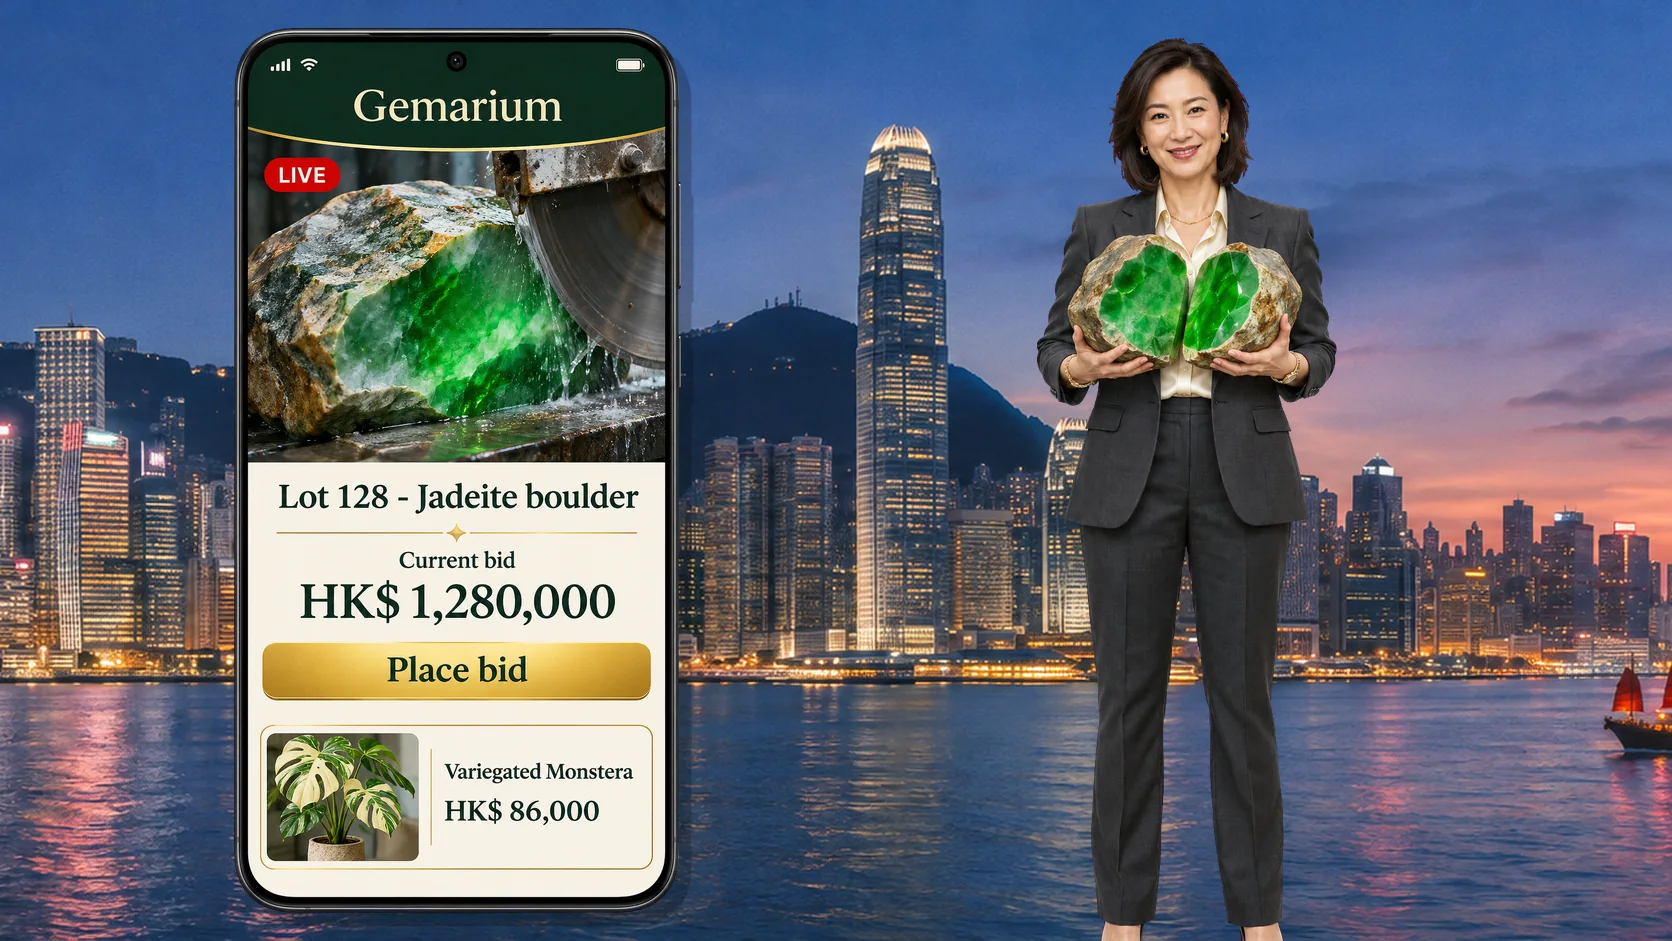
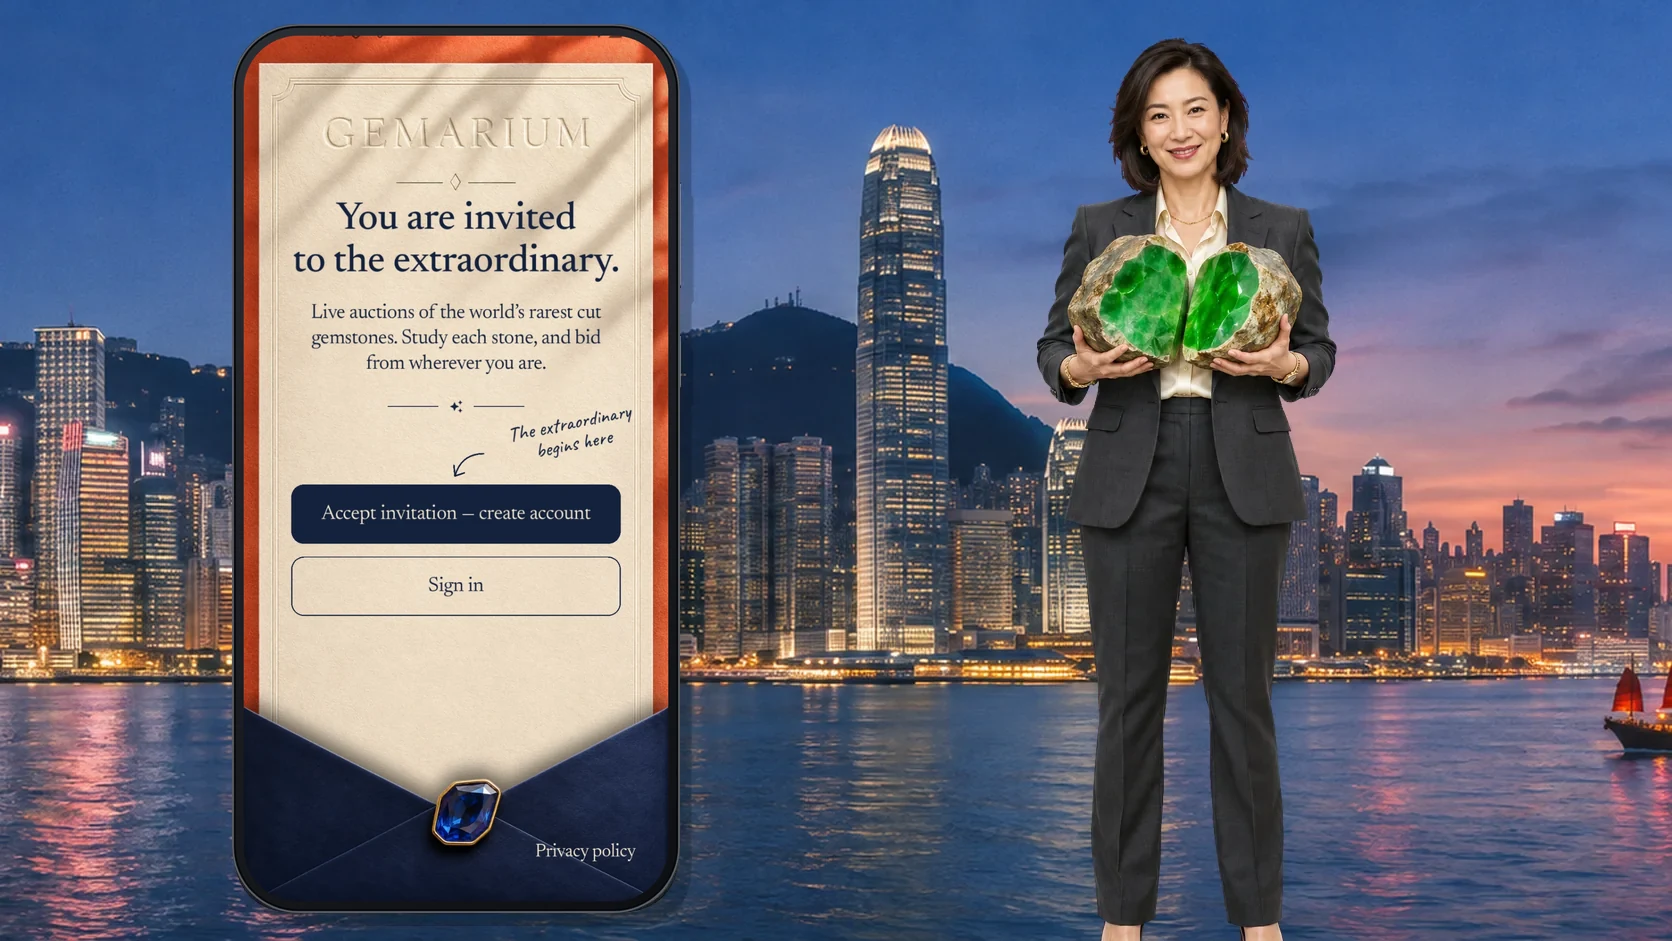
feat: cenas do portfólio reorganizadas e imagens carregadas ao entrar
- ClockRight, Fran, Gemarium e App Banco: pessoa junto da peça, com o
  corpo terminando atrás dela, em vez de solta e longe da legenda.
- App Banco: senhor mais realista, cartão de saldo preto e tela do app.
- Gemarium: nova tela do app, posição 07 e local só "Hong Kong".
- Ao entrar no Portfólio (desktop), baixa as imagens de todas as cenas.

Changed region(s): [[0.1244, 0.0, 0.4043, 0.9862]]

diff --git a/src/pages/Mateus/Portfolio/ProjectStage.tsx b/src/pages/Mateus/Portfolio/ProjectStage.tsx
@@ -7,6 +7,7 @@ import nexovareTela1 from "../../../assets/Mateus/portfolio/stage/nexovare-tela1
 import bancoPessoa from "../../../assets/Mateus/portfolio/stage/banco-pessoa.webp";
 import bancoCena from "../../../assets/Mateus/portfolio/stage/banco-cena.webp";
 import bancoTela1 from "../../../assets/Mateus/portfolio/stage/banco-tela1.webp";
+import bancoTela2 from "../../../assets/Mateus/portfolio/stage/banco-tela2.webp";
 import bideirasPessoa from "../../../assets/Mateus/portfolio/stage/bideiras-pessoa.webp";
 import bideirasCena from "../../../assets/Mateus/portfolio/stage/bideiras-cena.webp";
 import bideirasTela1 from "../../../assets/Mateus/portfolio/stage/bideiras-tela1.webp";
@@ -58,6 +59,8 @@ type Person = Readonly<{
 	bottom?: number;
 	/** Corpo inteiro: sem o degradê que some com as pernas. */
 	full?: boolean;
+	/** Altura do quadro em que o corpo termina, escondido atrás da peça da frente. */
+	until?: number;
 }>;
 
 type StageConfig = Readonly<{
@@ -79,11 +82,14 @@ const STAGES: Partial<Record<PortfolioProjectId, StageConfig>> = {
 		caption: { x: 22, y: 100, w: 160 },
 	},
 	"app-bank": {
-		circle: { x: 204, y: 150, d: 286 },
+		circle: { x: 208, y: 70, d: 286 },
 		scene: bancoCena,
-		person: { src: bancoPessoa, right: -8, bottom: 112, h: 330 },
-		screens: [{ src: bancoTela1, x: 16, y: 84, w: 300, rot: -3, radius: 18, alt: "Saldo no App Banco" }],
-		caption: { x: 22, y: 300, w: 170 },
+		person: { src: bancoPessoa, right: 12, top: 56, h: 600, until: 530 },
+		screens: [
+			{ src: bancoTela1, x: 150, y: 392, w: 320, rot: -3, radius: 18, alt: "Saldo no App Banco" },
+			{ src: bancoTela2, x: 24, y: 282, w: 140, bare: true, alt: "Tela de acesso do App Banco" },
+		],
+		caption: { x: 22, y: 96, w: 165 },
 	},
 	"guine-bissau-commerce": {
 		circle: { x: 186, y: 84, d: 300 },
@@ -93,10 +99,10 @@ const STAGES: Partial<Record<PortfolioProjectId, StageConfig>> = {
 		caption: { x: 22, y: 96, w: 152 },
 	},
 	clockright: {
-		circle: { x: 236, y: 80, d: 250 },
+		circle: { x: 206, y: 70, d: 280 },
 		scene: clockrightCena,
-		person: { src: clockrightPessoa, right: 34, top: 96, h: 392, full: true },
-		screens: [{ src: clockrightTela1, x: 20, y: 300, w: 212, radius: 14, alt: "Menu do ClockRight" }],
+		person: { src: clockrightPessoa, right: 88, top: 90, h: 580, until: 566 },
+		screens: [{ src: clockrightTela1, x: 112, y: 346, w: 300, radius: 14, alt: "Menu do ClockRight" }],
 		caption: { x: 22, y: 96, w: 210 },
 	},
 	"central-clube-livro": {
@@ -111,25 +117,46 @@ const STAGES: Partial<Record<PortfolioProjectId, StageConfig>> = {
 		logo: false,
 	},
 	"site-adv": {
-		circle: { x: 216, y: 80, d: 268 },
+		circle: { x: 180, y: 70, d: 280 },
 		scene: gemariumCena,
-		person: { src: gemariumPessoa, right: 44, top: 92, h: 452, full: true },
-		screens: [{ src: gemariumTela1, x: 34, y: 286, w: 146, bare: true, alt: "Aplicativo do Gemarium" }],
-		caption: { x: 22, y: 96, w: 190 },
+		person: { src: gemariumPessoa, right: 90, top: 86, h: 560, until: 576 },
+		screens: [{ src: gemariumTela1, x: 248, y: 292, w: 145, bare: true, alt: "Aplicativo do Gemarium" }],
+		caption: { x: 22, y: 96, w: 155 },
 	},
 	"site-cabeleireira": {
-		circle: { x: 226, y: 96, d: 262 },
+		circle: { x: 208, y: 70, d: 288 },
 		scene: franCena,
-		person: { src: franPessoa, right: 30, top: 104, h: 384, full: true },
+		person: { src: franPessoa, right: 58, top: 86, h: 590, until: 576 },
 		screens: [
-			{ src: franTela1, x: 18, y: 304, w: 206, rot: -3, alt: "Página inicial do Fran Studio" },
+			{ src: franTela1, x: 178, y: 320, w: 250, rot: -3, alt: "Página inicial do Fran Studio" },
 		],
-		caption: { x: 22, y: 96, w: 200 },
+		caption: { x: 32, y: 96, w: 165 },
 	},
 };
 
 export const hasProjectStage = (projectId: PortfolioProjectId) =>
 	Boolean(STAGES[projectId]);
+
+// Mantém as referências: sem elas o navegador pode descartar o que já decodificou.
+const preloadedStageImages: HTMLImageElement[] = [];
+
+/** Baixa as imagens de todas as cenas em segundo plano (só o desktop usa o painel). */
+export function preloadProjectStages() {
+	if (preloadedStageImages.length > 0 || !globalThis.matchMedia("(min-width: 992px)").matches) return;
+	const sources = new Set(
+		Object.values(STAGES).flatMap((stage) => [
+			stage.scene,
+			stage.person.src,
+			...stage.screens.map((screen) => screen.src),
+		]),
+	);
+	for (const src of sources) {
+		const image = new Image();
+		image.src = src;
+		image.decode().catch(() => undefined);
+		preloadedStageImages.push(image);
+	}
+}
 
 type StageStyle = CSSProperties & Record<`--${string}`, string>;
 
@@ -140,7 +167,8 @@ export default function ProjectStage({ project }: Readonly<{ project: PortfolioP
 	if (!stage) return null;
 
 	const { circle, person, caption } = stage;
-	const location = project.worldLocation;
+	const city = project.worldLocation?.city ?? "Fortaleza";
+	const country = project.worldLocation?.country ?? "Brasil";
 	const stageStyle: StageStyle = {
 		"--circle-x": px(circle.x),
 		"--circle-y": px(circle.y),
@@ -151,6 +179,7 @@ export default function ProjectStage({ project }: Readonly<{ project: PortfolioP
 		top: person.top === undefined ? undefined : px(person.top),
 		bottom: person.bottom === undefined ? undefined : px(person.bottom),
 		height: px(person.h),
+		clipPath: person.until === undefined ? undefined : `inset(0 0 ${(person.top ?? 0) + person.h - person.until}px 0)`,
 	};
 
 	return (
@@ -167,7 +196,7 @@ export default function ProjectStage({ project }: Readonly<{ project: PortfolioP
 				<img className={styles.scene} src={stage.scene} alt="" draggable={false} decoding="async" />
 			</div>
 			<img
-				className={`${styles.person} ${person.full ? "" : styles.personFade}`}
+				className={`${styles.person} ${person.full || person.until ? "" : styles.personFade}`}
 				style={personStyle}
 				src={person.src}
 				alt=""
@@ -218,7 +247,7 @@ export default function ProjectStage({ project }: Readonly<{ project: PortfolioP
 				<p>{localizeLabel(project.subtitle)}</p>
 				<ul>
 					<li>
-						{localizeLabel(location?.city ?? "Fortaleza")} · {localizeLabel(location?.country ?? "Brasil")}
+						{localizeLabel(city)}{city === country ? null : ` · ${localizeLabel(country)}`}
 					</li>
 					<li>{localizeLabel(project.year)}</li>
 					<li>{project.technologies.map((technology) => localizeLabel(technology)).join(" · ")}</li>

diff --git a/src/pages/Mateus/Portfolio/Portfolio.tsx b/src/pages/Mateus/Portfolio/Portfolio.tsx
@@ -29,7 +29,7 @@ import usePortfolioMotion from "./hooks/usePortfolioMotion";
 import { defaultPortfolioProjectId, portfolioProjects } from "./portfolio.data";
 import styles from "./Portfolio.module.css";
 import MobileProjectMeta from "./MobileProjectMeta";
-import ProjectStage, { hasProjectStage } from "./ProjectStage";
+import ProjectStage, { hasProjectStage, preloadProjectStages } from "./ProjectStage";
 import ProjectImageLightbox from "./ProjectImageLightbox";
 import { ProjectSiteBadge, toSiteLinkLabel } from "./ProjectSiteLink";
 import type { PortfolioProjectId } from "./types";
@@ -39,7 +39,7 @@ const PORTFOLIO_AUTOPLAY_INTERVAL_MS = 6200;
 const COUNTRY_FLAGS: Readonly<Record<string, string>> = {
 	Brasil: flagBrazil,
 	// O único projeto na China é em Hong Kong, que tem bandeira própria.
-	China: flagHongKong,
+	"Hong Kong": flagHongKong,
 	México: flagMexico,
 	"Guiné-Bissau": flagGuineaBissau,
 	"Estados Unidos": flagUnitedStates,
@@ -197,6 +197,12 @@ export default function Portfolio() {
 	const isPortfolioRoute = getSectionIdByPath(location.pathname) === "portfolio";
 	const isPortfolioActive = activeSectionId === "portfolio" || isPortfolioRoute;
 	const wasPortfolioActiveRef = useRef(false);
+
+	// Ao chegar no Portfólio, já baixa as cenas de todos os projetos: trocar de
+	// projeto não pode esperar o carregamento das imagens.
+	useEffect(() => {
+		if (isPortfolioActive) preloadProjectStages();
+	}, [isPortfolioActive]);
 
 	useEffect(() => {
 		const card = mobileDetailCardRef.current;
@@ -609,7 +615,7 @@ export default function Portfolio() {
 								type="button"
 								className={`${styles.journeyMarker} ${styles.journeyDestination}`}
 								style={toGeographicPositionStyle(worldJourneyDestination)}
-								aria-label={localizeLabel(`Destino atual: ${activeLocation?.city}, ${activeLocation?.country}`)}
+								aria-label={localizeLabel(`Destino atual: ${activeLocation?.city === activeLocation?.country ? activeLocation?.city : `${activeLocation?.city}, ${activeLocation?.country}`}`)}
 								aria-pressed="true"
 								onClick={() => setIsAutoplayPaused(true)}
 								data-world-journey-destination={activeProject.id}
@@ -628,7 +634,7 @@ export default function Portfolio() {
 			<div className={styles.mobilePortfolio} data-mobile-portfolio="true">
 				<div className={styles.mobileLocation} data-mobile-location="true">
 					<strong>{localizeLabel(activeLocation?.country ?? "Brasil")}</strong>
-					<span>{localizeLabel(activeLocation?.city ?? "Fortaleza")}</span>
+					{activeLocation?.city === activeLocation?.country ? null : <span>{localizeLabel(activeLocation?.city ?? "Fortaleza")}</span>}
 					<small>{localizeLabel(activeLocation?.region)}</small>
 				</div>
 
@@ -876,7 +882,7 @@ export default function Portfolio() {
 					<header className={styles.locationHeader}>
 						<strong>{localizeLabel(activeLocation?.country ?? "Brasil")}</strong>
 						<span>
-							{localizeLabel(activeLocation?.city ?? "Fortaleza")} · {localizeLabel(activeLocation?.region)}
+							{localizeLabel(activeLocation?.city ?? "Fortaleza")}{activeLocation?.region ? ` · ${localizeLabel(activeLocation.region)}` : null}
 						</span>
 					</header>
 

diff --git a/src/pages/Mateus/Portfolio/portfolio.data.ts b/src/pages/Mateus/Portfolio/portfolio.data.ts
@@ -191,35 +191,6 @@ export const portfolioProjects: ReadonlyArray<PortfolioProject> = [
     },
   },
   {
-    id: "site-adv",
-    name: "Gemarium",
-    year: "2021",
-    imageSrc: imagem4,
-    mobileImageSrc: mobileWalter,
-    imageAlt: "Preview do projeto Gemarium",
-    logoSrc: logo4,
-    logoAspect: 1.208,
-    logoAlt: "Logo do projeto Gemarium",
-    projectLabel: "Projeto em destaque",
-    subtitle: "Leilão de gemas e plantas raras",
-    statusLabel: "SELECIONAR",
-    counterLabel: "06",
-    accent: "platinum",
-    tags: ["Leilão", "Gemas", "Plantas raras"],
-    technologies: ["Flutter", "Go", "PostgreSQL"],
-    media: {
-      ...defaultProjectMedia,
-      position: "50% 8%",
-    },
-    worldLocation: {
-      country: "China",
-      city: "Hong Kong",
-      region: "Hong Kong",
-      lat: 22.3193,
-      lng: 114.1694,
-    },
-  },
-  {
     id: "site-cabeleireira",
     name: "Fran Studio",
     year: "2023",
@@ -233,7 +204,7 @@ export const portfolioProjects: ReadonlyArray<PortfolioProject> = [
     projectLabel: "Projeto em destaque",
     subtitle: "Marca e captação local",
     statusLabel: "SELECIONAR",
-    counterLabel: "07",
+    counterLabel: "06",
     accent: "neutral",
     tags: ["Studio", "Serviços", "Conversão"],
     technologies: ["React", "Node.js", "Qdrant"],
@@ -247,6 +218,34 @@ export const portfolioProjects: ReadonlyArray<PortfolioProject> = [
       region: "Ceará",
       lat: -3.7319,
       lng: -38.5267,
+    },
+  },
+  {
+    id: "site-adv",
+    name: "Gemarium",
+    year: "2021",
+    imageSrc: imagem4,
+    mobileImageSrc: mobileWalter,
+    imageAlt: "Preview do projeto Gemarium",
+    logoSrc: logo4,
+    logoAspect: 1.208,
+    logoAlt: "Logo do projeto Gemarium",
+    projectLabel: "Projeto em destaque",
+    subtitle: "Leilão de gemas e plantas raras",
+    statusLabel: "SELECIONAR",
+    counterLabel: "07",
+    accent: "platinum",
+    tags: ["Leilão", "Gemas", "Plantas raras"],
+    technologies: ["Flutter", "Go", "PostgreSQL"],
+    media: {
+      ...defaultProjectMedia,
+      position: "50% 8%",
+    },
+    worldLocation: {
+      country: "Hong Kong",
+      city: "Hong Kong",
+      lat: 22.3193,
+      lng: 114.1694,
     },
   },
 ] as const;

diff --git a/e2e/portfolio-mobile-meta.spec.ts b/e2e/portfolio-mobile-meta.spec.ts
@@ -5,7 +5,7 @@ for(const language of ['pt','en'])test(`mobile metadata returns after resize ${l
  const page=await context.newPage();
  await page.goto(language==='pt'?'/portfolio':'/en/portfolio',{waitUntil:'networkidle'});
  const card=page.locator('[data-mobile-detail-card]');
- for(let index=0;index<5;index++)await card.getByRole('button',{name:language==='pt'?'Próximo projeto':'Next project',exact:true}).click();
+ for(let index=0;index<6;index++)await card.getByRole('button',{name:language==='pt'?'Próximo projeto':'Next project',exact:true}).click();
  await expect(card.locator('h2')).toHaveText('Gemarium');
  const chips=card.locator('[data-mobile-meta] span');
  const inspect=()=>chips.evaluateAll(elements=>elements.map(element=>({text:element.textContent,hidden:element.getAttribute('data-overflow-hidden')==='true',visible:getComputedStyle(element).visibility!=='hidden',ariaHidden:element.getAttribute('aria-hidden')})));

diff --git a/e2e/portfolio-mobile-summary.spec.ts b/e2e/portfolio-mobile-summary.spec.ts
@@ -8,8 +8,8 @@ const projects = [
   {id:'guine-bissau-commerce',name:'BIDEIRAS',subtitle:'Comércio digital internacional',year:'2025',asset:'bideiras',assetVersion:2},
   {id:'clockright',name:'ClockRight',subtitle:'Ponto por biometria facial',year:'2024',asset:'clockright',assetVersion:2},
   {id:'central-clube-livro',name:'Entre Paginas',subtitle:'Comunidade editorial',year:'2020',asset:'entre-paginas',assetVersion:2},
-  {id:'site-adv',name:'Gemarium',subtitle:'Leilão de gemas e plantas raras',year:'2021',asset:'gemarium'},
   {id:'site-cabeleireira',name:'Fran Studio',subtitle:'Marca e captação local',year:'2023',asset:'fran-studio',assetVersion:2},
+  {id:'site-adv',name:'Gemarium',subtitle:'Leilão de gemas e plantas raras',year:'2021',asset:'gemarium'},
 ];
 const viewports = [{width:283,height:500},{width:320,height:568},{width:360,height:640},
   {width:390,height:844},{width:430,height:932},{width:667,height:375}];
